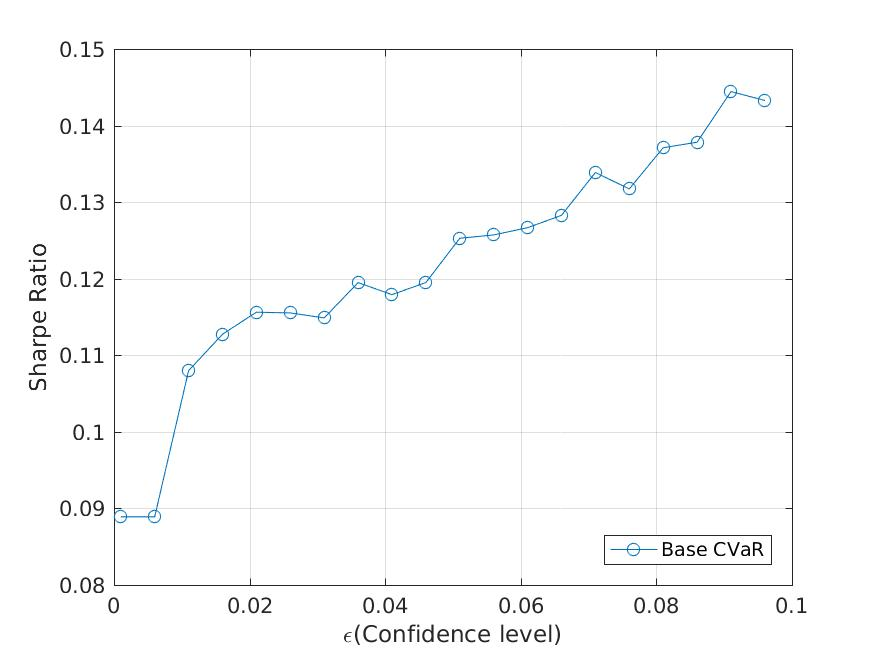
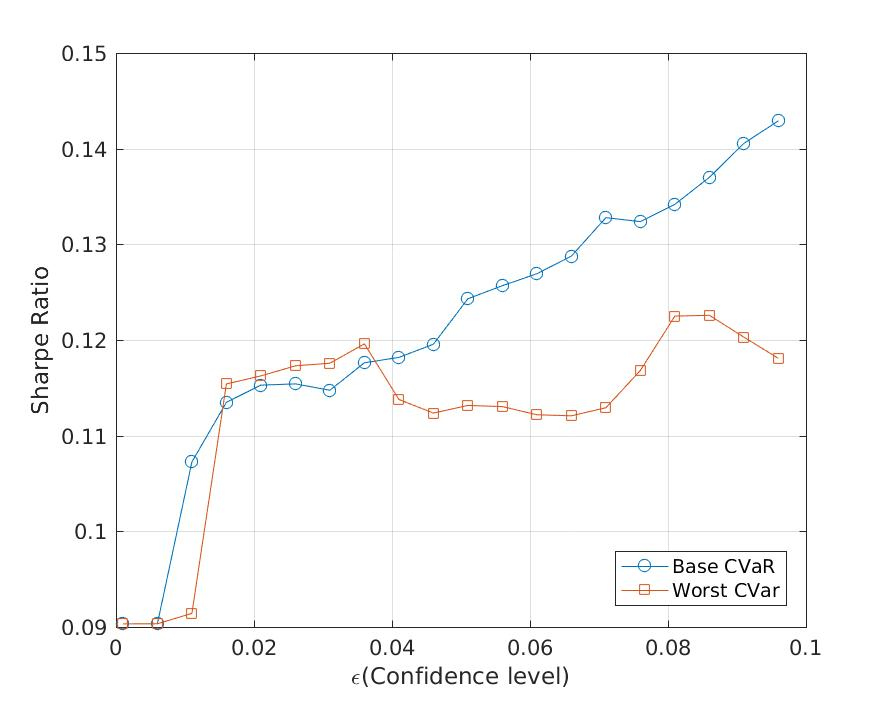
Added Code for mixture cvar

diff --git a/Var-CVaR/code_cvar_mix.m b/Var-CVaR/code_cvar_mix.m
@@ -1,0 +1,237 @@
+clc;
+clear all;
+
+% Read the csv file (Change it to "final_list100.csv" for BSE100)
+table = readtable('./data_related/final_list100.csv');
+% table = readtable('./data_related/final_list100.csv');
+
+stock_prices = table{:,2:end};
+stock_prices = diff(log(stock_prices));
+mu = mean(stock_prices);
+mu = mu';
+covariance = cov(stock_prices);
+
+
+% Jarque Bera Test
+% 
+% cnt = 0;
+% for i = 1:size(stock_prices,2)
+%     ks_vec=stock_prices(:,i);
+%     m_ks=mean(ks_vec);
+%     sig_ks=std(ks_vec);
+%     ks_vec=ks_vec-m_ks;
+%     ks_vec=ks_vec/sig_ks;
+%     [h,p] = jbtest(ks_vec);
+%     if (h==1)
+%         cnt = cnt+1;
+%     end
+%     
+% end
+% disp(cnt)
+% return;
+
+
+% Uncomment if needed to use the simulated data
+
+% rng default  % For reproducibility
+% %m=1000;   % If #simulations is 1000
+% m=size(stock_prices,1); % If #simulations is same as market data
+% temp_data = mvnrnd(mu,covariance,m);
+% stock_prices=temp_data;
+% mu = mean(stock_prices);
+% mu = mu';
+% covariance = cov(stock_prices);
+
+
+e_range  = 0.001:5*10^(-3):0.1;
+% e_range = 0.0001:10^(-4):0.01
+
+mean_vals_base = zeros(size(e_range,2),1);
+sd_vals_base = zeros(size(e_range,2),1);
+
+N = size(stock_prices,2);
+S = size(stock_prices,1);
+
+init = rand(N+S+2,1);
+
+for i=1:size(e_range,2)
+    
+    e = e_range(1,i);
+    
+%     Constraints in Obj function.
+    
+    
+%     init=rand(N+1,1);
+%     A_f=[stock_prices,ones(S,1)];
+%     min_obj_f=@(y)(y(N+1)+(1/(S*e))*sum(max(A_f*y,zeros(S,1))) );
+%     A=(-1)*[eye(N),zeros(N,1)];
+%     b=zeros(N,1);
+%     A_eq=[ones(1,N),0];
+%     b_eq=1;
+    
+    
+    
+    options = optimoptions(@fmincon,'Algorithm','interior-point','MaxIterations',6000);
+    options.MaxFunctionEvaluations = 80000;
+%     options.StepTolerance = 10^(-16);
+    
+    min_obj_f = @(y) (y(N+S+2));
+%     min_obj_f = zeros(N+S+2,1);
+%     min_obj_f(end)=1;
+    
+    A=zeros(N+2*S+1,N+S+2);
+    b=zeros(N+2*S+1,1);
+    
+    A(1:N,1:N)=(-1)*eye(N);
+    A(N+1,N+1)=1;
+    A(N+1,N+S+2)=-1;
+    A(N+1,(N+2):(N+S+1))=(1/(S*e))*ones(1,S);
+    A((N+2):(N+S+1),N+1)=(-1)*ones(S,1);
+    A((N+2):(N+S+1),(N+2):(N+S+1))=(-1)*eye(S);
+    A((N+2):(N+S+1),1:N)=(-1)*stock_prices;
+    A((N+S+2):(N+2*S+1),(N+2):(N+S+1))=(-1)*eye(S);
+    
+    A_eq=zeros(1,N+S+2);
+    A_eq(1,1:N)=ones(1,N);
+    b_eq=1;
+%     options = optimoptions('linprog','Algorithm','interior-point-legacy');
+    
+    [y,fval,exitflag,output] = fmincon(min_obj_f,init,A,b,A_eq,b_eq,[],[],[],options);
+    x=y(1:N);
+    mean_vals_base(i) = mu'*x;
+    sd_vals_base(i) = sqrt(x'*covariance*x);
+    
+end
+
+
+
+
+mark_size = 5;
+
+% Efficient Frontier
+
+% F=figure(1); hold on;
+% box on
+% grid on
+% plot(sd_vals_base, mean_vals_base,'-s','markers',mark_size);
+% %plot(sd_vals_wvar, mean_vals_wvar,'-o','markers',mark_size);
+% lgd = legend('Base CVaR');
+% lgd.Location = 'southeast';
+% ylabel('Return');
+% xlabel('Standard Deviation')
+% saveas(F,'ef_30_cvar_cons.jpeg');
+% %saveas(F,'./JPEGs/bse30_simulated/ef_exact_cheb.jpeg');
+% %saveas(F,'./EPSs/bse30_simulated/ef_exact_cheb.eps','epsc');
+% 
+% hold off
+
+
+
+
+
+
+% Robust Models
+
+sample_prob = mvnpdf(stock_prices, mu', covariance);
+sample_prob = sample_prob./(sum(sample_prob));
+
+
+upper_eta = max(0, sample_prob - 1/S);
+lower_eta = max(0, 1/S - sample_prob);
+
+rho = norm(sample_prob - 1/S);
+scale = rho*eye(S);
+
+mean_vals_wcvar = zeros(size(e_range,2),1);
+sd_vals_wcvar = zeros(size(e_range,2),1);
+
+init = rand(N+S+2,1);
+S1= floor(S/3);
+S2=2*S1;
+S3=S-S1-S2;
+
+% Mixture Uncertainty
+
+for i=1:size(e_range,2)
+    
+    e = e_range(1,i)
+    
+%     Constraints in Obj function.
+    
+    
+%     init=rand(N+1,1);
+%     A_f=[stock_prices,ones(S,1)];
+%     min_obj_f=@(y)(y(N+1)+(1/(S*e))*sum(max(A_f*y,zeros(S,1))) );
+%     A=(-1)*[eye(N),zeros(N,1)];
+%     b=zeros(N,1);
+%     A_eq=[ones(1,N),0];
+%     b_eq=1;
+    
+    
+    
+    options = optimoptions(@fmincon,'Algorithm','interior-point','MaxIterations',6000);
+    options.MaxFunctionEvaluations = 80000;
+%     options.StepTolerance = 10^(-16);
+    
+    
+    
+    
+    A=zeros(N+2*S+3,N+S+2);
+    b=zeros(N+2*S+3,1);
+    
+    A(1:N,1:N)=(-1)*eye(N);
+    
+    A(N+1,N+1)=1;
+    A(N+1,N+S+2)=-1;
+    A(N+1,(N+2):(N+S1+1))=(1/(S1*e))*ones(1,S1);
+    A(N+2,N+1)=1;
+    A(N+2,N+S+2)=-1;
+    A(N+2,(N+S1+2):(N+S1+S2+1))=(1/(S2*e))*ones(1,S2);
+    A(N+3,N+1)=1;
+    A(N+3,N+S+2)=-1;
+    A(N+3,(N+S1+S2+2):(N+S+1))=(1/(S3*e))*ones(1,S3);
+    
+    A((N+4):(N+S+3),N+1)=(-1)*ones(S,1);
+    A((N+4):(N+S+3),(N+2):(N+S+1))=(-1)*eye(S);
+    A((N+4):(N+S+3),1:N)=(-1)*stock_prices;
+    A((N+S+4):(N+2*S+3),(N+2):(N+S+1))=(-1)*eye(S);
+    
+    A_eq=zeros(1,N+S+2);
+    A_eq(1,1:N)=ones(1,N);
+    b_eq=1;
+    
+%     options = optimoptions('linprog','Algorithm','interior-point-legacy');
+    [y,fval,exitflag,output] = fmincon(min_obj_f,init,A,b,A_eq,b_eq,[],[],[],options);
+    x=y(1:N);
+    mean_vals_wcvar(i) = mu'*x;
+    sd_vals_wcvar(i) = sqrt(x'*covariance*x);
+    
+end
+
+
+risk_free = log(1.06)/365;
+base = (mean_vals_base - risk_free)./sd_vals_base;
+wcvar = (mean_vals_wcvar - risk_free)./sd_vals_wcvar;
+
+
+F = figure(2); hold on;
+box on
+grid on
+plot(e_range, base,'-o');
+plot(e_range, wcvar,'-s');
+lgd = legend('Base CVaR','Worst CVar');
+lgd.Location = 'southeast';
+ylabel('Sharpe Ratio');
+xlabel('\epsilon(Confidence level)');
+saveas(F,'sr_100_cvar_cons.jpeg');
+
+% change the names of the files and folders accordingly.
+%saveas(F,'./JPEGs/bse30_simulated/sr_exact_cheb.jpeg');
+%saveas(F,'./EPSs/bse30_simulated/sr_exact_cheb.eps','epsc');
+hold off
+
+
+
+
+
+
